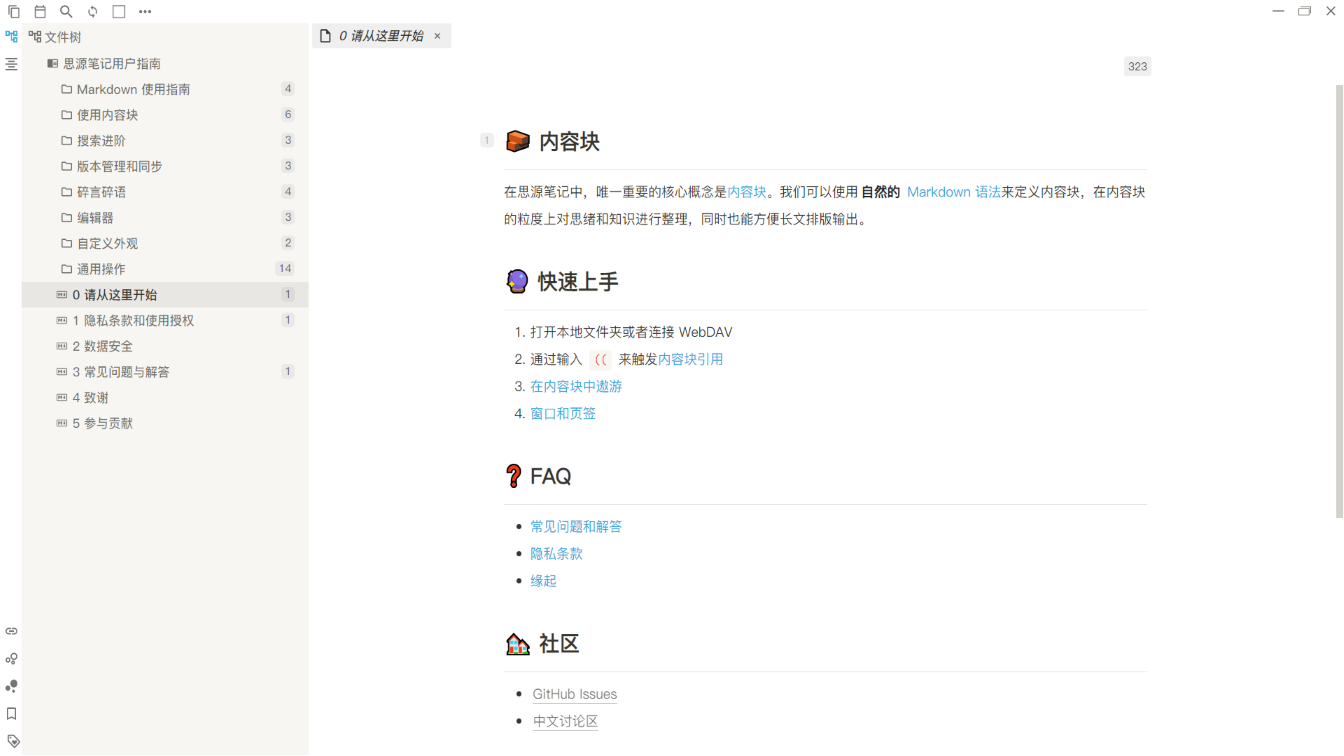
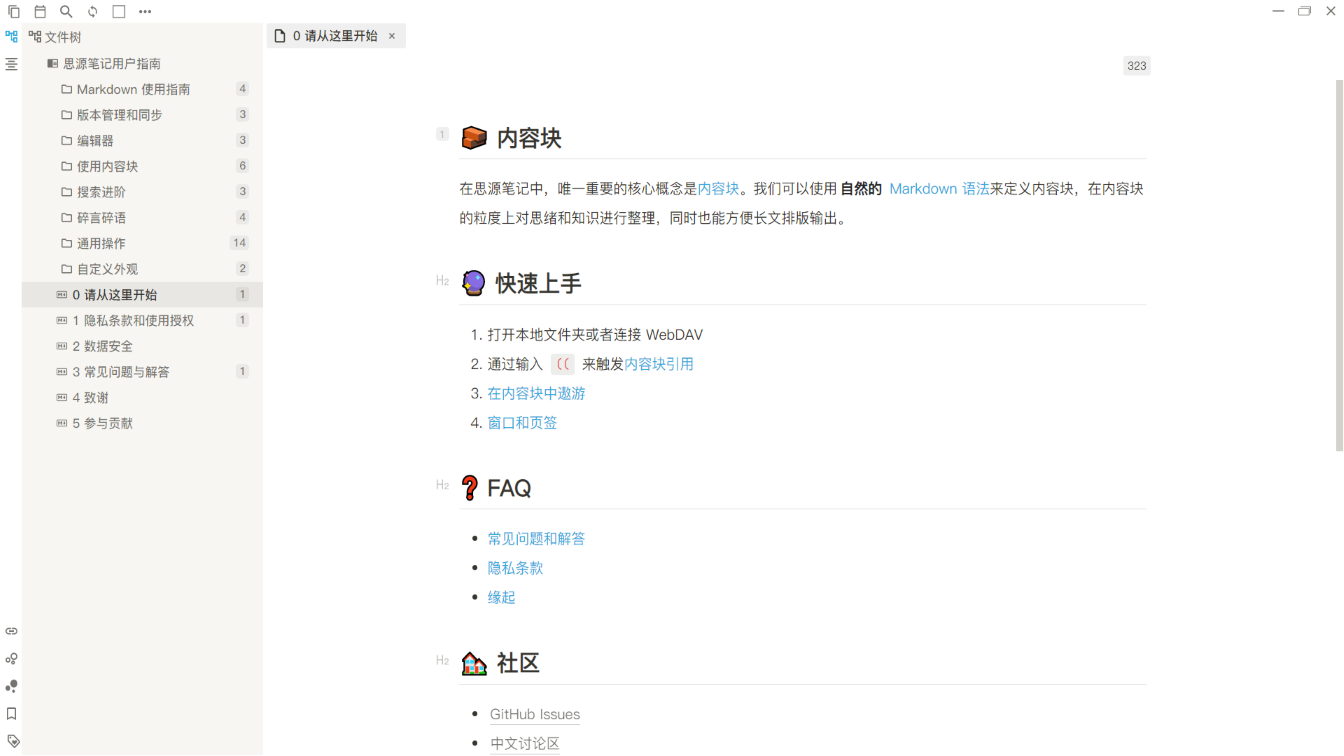
0.6.1 update

diff --git a/theme.css b/theme.css
@@ -196,7 +196,9 @@
   --b3-vditor-inline-em-color: #202124;
   --b3-vditor-inline-s-color: #202124;
   --b3-vditor-inline-link-color: var(--Notion-vditor-inline-link-color);
-  --b3-vditor-inline-mark-background: var(--Notion-vditor-inline-mark-background);
+  --b3-vditor-inline-mark-background: var(
+    --Notion-vditor-inline-mark-background
+  );
   --b3-vditor-inline-mark-color: #202124;
   --b3-vditor-inline-tag-color: #5f6368;
   --b3-vditor-inline-blockref-color: var(--Notion-vditor-inline-blockref-color);
@@ -260,7 +262,7 @@
 
 /* 侧边栏 */
 .file-tree .fn__flex-1,
-.b3-tab-bar {
+.b3-list--background {
   background-color: var(--Notion-theme-surface);
 }
 
@@ -314,7 +316,7 @@
   background-color: var(--Notion-text-border-color);
 }
 /* 设置菜单 */
-.b3-tab-bar,
+.b3-list--background,
 .b3-tab-container * {
   font-family: "PingFang SC Bold";
 }
@@ -378,8 +380,7 @@
 }
 
 /* 侧边栏页签列表和顶栏按钮 */
-.file-tree .fn__flex-1 .b3-list-item:hover,
-.b3-tab-bar .b3-list-item:hover,
+.b3-list--background .b3-list-item:hover,
 .block__icons:hover,
 .block__icons:hover .fn__flex-1 {
   background-color: var(--Notion-list-background-hover) !important;
@@ -403,15 +404,12 @@ span[data-type="counter"]:hover,
 }
 
 /* 侧边栏页签列表 */
-.file-tree .fn__flex-1 .b3-list-item:active,
-.b3-tab-bar .b3-list-item:active {
+.b3-list--background .b3-list-item:active {
   background-color: var(--Notion-list-background-click) !important;
 }
 
-.file-tree .fn__flex-1 .b3-list-item:active .b3-list-item__text,
-.file-tree .fn__flex-1 .b3-list-item:active .b3-list-item__graphic,
-.b3-tab-bar .b3-list-item:active .b3-list-item__text,
-.b3-tab-bar .b3-list-item:active .b3-list-item__graphic {
+.b3-list--background .b3-list-item:active .b3-list-item__text,
+.b3-list--background .b3-list-item:active .b3-list-item__graphic {
   color: var(--Notion-theme-on-surface-focus) !important;
 }
 
@@ -433,15 +431,12 @@ span[data-type="counter"]:active,
 }
 
 /* 侧边栏页签列表 */
-.file-tree .fn__flex-1 .b3-list-item--focus,
-.b3-tab-bar .b3-list-item--focus {
+.b3-list--background .b3-list-item--focus {
   background-color: var(--Notion-list-background-focus) !important;
 }
 
-.file-tree .fn__flex-1 .b3-list-item--focus .b3-list-item__text,
-.file-tree .fn__flex-1 .b3-list-item--focus .b3-list-item__graphic,
-.b3-tab-bar .b3-list-item--focus .b3-list-item__text,
-.b3-tab-bar .b3-list-item--focus .b3-list-item__graphic {
+.b3-list--background .b3-list-item--focus .b3-list-item__text,
+.b3-list--background .b3-list-item--focus .b3-list-item__graphic {
   color: var(--Notion-theme-on-surface-focus) !important;
 }
 
@@ -453,20 +448,15 @@ span[data-type="counter"]:active,
 }
 
 /* 侧边栏页签列表 */
-.file-tree .fn__flex-1 .b3-list-item--focus:hover,
-.b3-tab-bar .b3-list-item--focus:hover {
+.b3-list--background .b3-list-item--focus:hover {
   background-color: var(--Notion-list-background-focus-hover) !important;
 }
 
 /* 侧边栏页签列表上的按钮 */
-.file-tree .fn__flex-1 .b3-list-item--focus .b3-list-item__action:hover,
-.file-tree .fn__flex-1 .b3-list-item--focus span[data-type="counter"]:hover,
+.b3-list--background .b3-list-item--focus .b3-list-item__action:hover,
+.b3-list--background .b3-list-item--focus span[data-type="counter"]:hover,
 .layout__wnd--active .layout-tab-bar .item--focus .item__close:hover,
-.file-tree .fn__flex-1 .b3-list-item--focus .b3-list-item__graphic--arrow:hover,
-.file-tree
-  .fn__flex-1
-  .b3-list-item--focus
-  .b3-list-item__graphic--arrow:hover {
+.b3-list--background .b3-list-item--focus .b3-list-item__graphic--arrow:hover {
   background-color: var(--Notion-button-background-focus-hover) !important;
 }
 
@@ -478,23 +468,15 @@ span[data-type="counter"]:active,
 }
 
 /* 侧边栏页签列表 */
-.file-tree .fn__flex-1 .b3-list-item--focus:active,
-.b3-tab-bar .b3-list-item--focus:active {
+.b3-list--background .b3-list-item--focus:active {
   background-color: var(--Notion-list-background-focus-click) !important;
 }
 
 /* 侧边栏页签列表上的按钮 */
-.file-tree .fn__flex-1 .b3-list-item--focus .b3-list-item__action:active,
-.file-tree .fn__flex-1 .b3-list-item--focus span[data-type="counter"]:active,
+.b3-list--background .b3-list-item--focus .b3-list-item__action:active,
+.b3-list--background .b3-list-item--focus span[data-type="counter"]:active,
 .layout__wnd--active .layout-tab-bar .item--focus .item__close:active,
-.file-tree
-  .fn__flex-1
-  .b3-list-item--focus
-  .b3-list-item__graphic--arrow:active,
-.file-tree
-  .fn__flex-1
-  .b3-list-item--focus
-  .b3-list-item__graphic--arrow:active {
+.b3-list--background .b3-list-item--focus .b3-list-item__graphic--arrow:active {
   background-color: var(--Notion-button-background-focus-click) !important;
 }
 
@@ -930,4 +912,9 @@ span[data-type="inline-math"]
 /* 键盘符 */
 kbd {
   background-color: var(--Notion-vditor-inline-code-background) !important;
+}
+
+/* mermaid */
+.edgeLabel * {
+  background-color: var(--Notion-theme-background) !important;
 }

diff --git a/README.md b/README.md
@@ -17,8 +17,9 @@
 
 ## 历史版本
 
-### 0.5.9
+### 0.6.1
 
+- 重构了UI按钮动效的代码
 - 更改编辑器内选中文字的底色
   - 以及靠块标识选中的底色
 - 修改了"===="语法的高亮底色
@@ -27,6 +28,7 @@
 - 增加了编辑器页签的外下边距
 - 增加了滚动条在鼠标悬停时的效果
 - 修改了标题块的块标识的位置
+- 修复了mermaid内部元素渲染的问题
 
 ### 0.5.1
 
